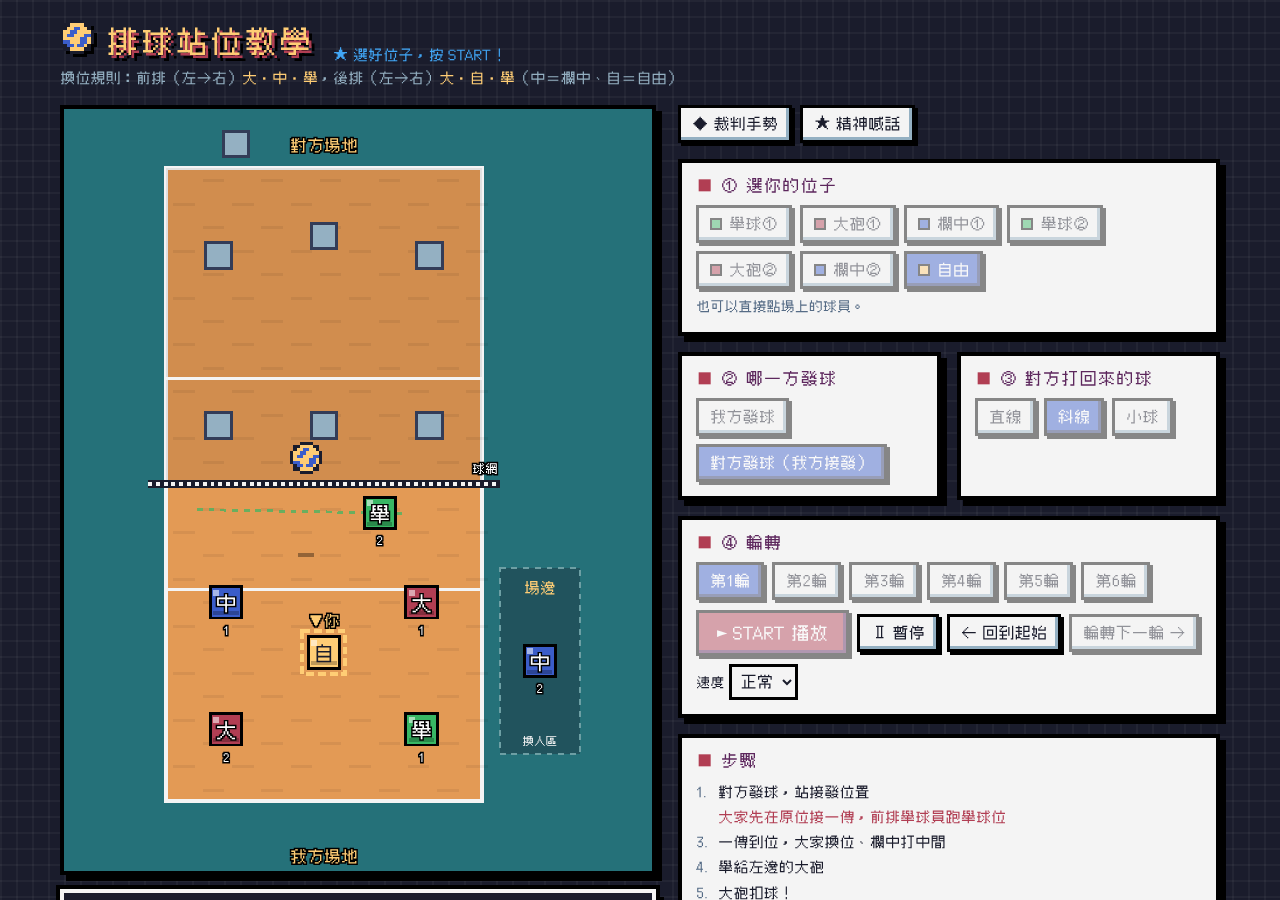
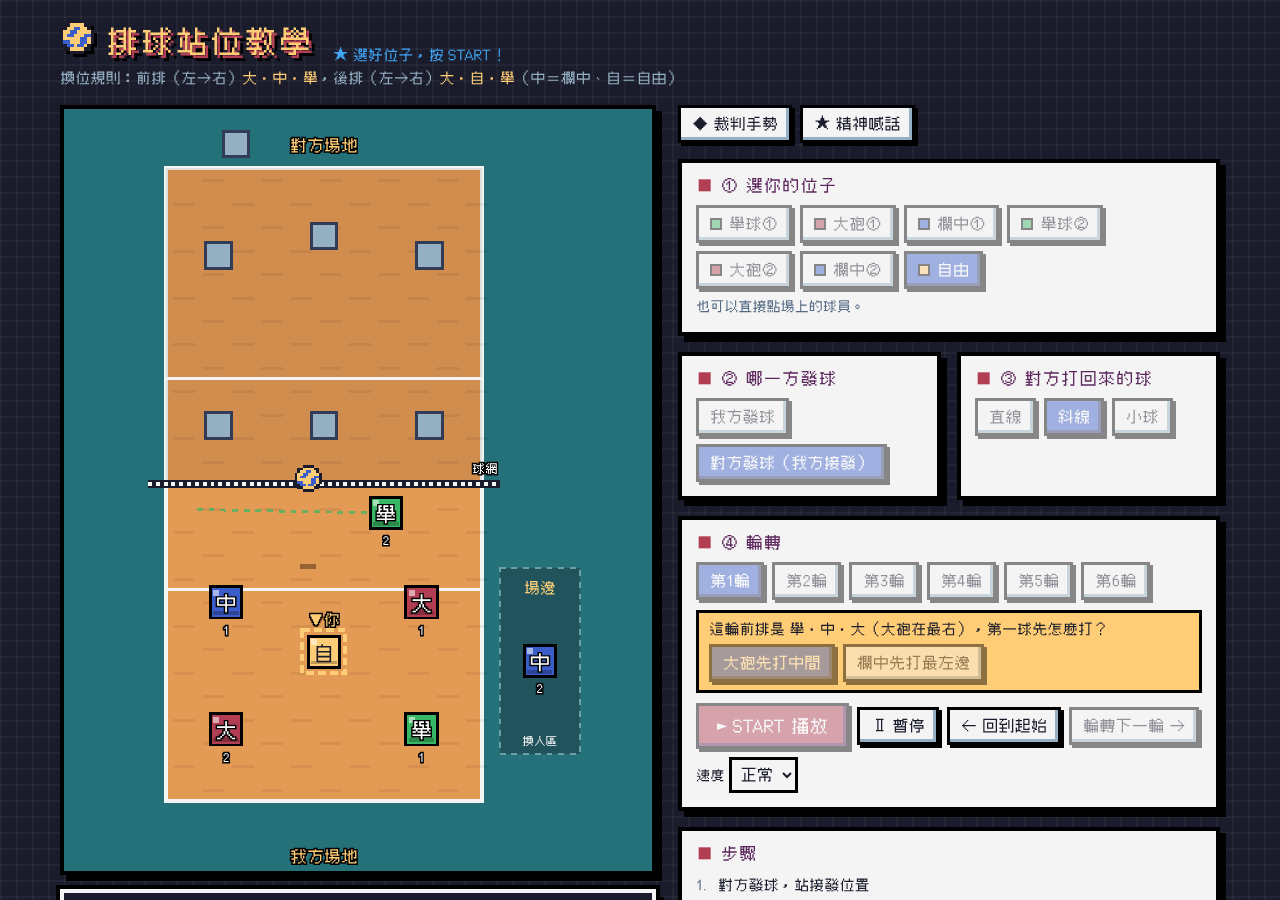
舉在最左、大砲在最右的輪次：先打一顆（大砲打中間或欄中打左邊）再換位
Claude-Session: https://claude.ai/code/session_0111Jq42HSaSmuEgEPrctLA6

diff --git a/index.html b/index.html
@@ -143,6 +143,10 @@
     <div class="card">
       <h2>④ 輪轉</h2>
       <div class="row" id="rotRow"></div>
+      <div id="firstBox" style="display:none;margin-top:10px;padding:8px 10px;background:#ffcd75;border:3px solid #000">
+        <div style="font-size:14px;margin-bottom:6px">這輪前排是 舉・中・大（大砲在最右），第一球先怎麼打？</div>
+        <div class="row" id="firstRow"></div>
+      </div>
       <div class="row" style="margin-top:10px;align-items:center">
         <button class="play" id="playBtn">► START 播放</button>
         <button id="pauseBtn" disabled>Ⅱ 暫停</button>
@@ -243,7 +247,7 @@ const ATK = {
   tip:   {name:'小球', text:'對方吊小球在攔網後面，<b>後排右的舉</b>往前衝救球。'}
 };
 
-let rot = 1, side = 'us', atk = 'cross', sel = null, speed = 1, token = 0, playing = false, paused = false;
+let rot = 1, side = 'us', atk = 'cross', sel = null, speed = 1, token = 0, playing = false, paused = false, firstAtk = 'ohMid';
 let cur = [], lu = null;
 
 const posOf = (i, r = rot) => (((i - (r - 1)) % 6) + 6) % 6 + 1;
@@ -493,16 +497,58 @@ function receiveSpots(){
   return spots;
 }
 
+/* 前排左→右是 舉・中・大（舉在最左、大在最右）的輪次 */
+function crossRound(){
+  if (side !== 'them') return false;
+  const S = front('舉'), OH = front('大');
+  return S >= 0 && OH >= 0 && lu.pos[S] === 4 && lu.pos[OH] === 2;
+}
+
 async function playThem(){
   const S = front('舉'), OH = front('大'), M = front('中'), passer = LIB;
   const rs = receiveSpots();
   const lp = rs[LIB];
   const passSpot = [lp[0] + (lp[0] < 200 ? 15 : lp[0] > 200 ? -15 : 0), lp[1] - 12], setSpot = [285,414];
-  setSteps(['對方發球，站接發位置','大家先在原位接一傳，前排舉球員跑舉球位','一傳到位，大家換位、欄中打中間','舉給左邊的大砲','大砲扣球！', ...DEF_STEPS]);
+  const cross = crossRound();
+  const others = P.map((_, i) => i).filter(i => onCourt(i) && !isFront(lu.pos[i]));
+
+  // 這一球誰打、從哪打
+  let plan;
+  if (!cross){
+    plan = {
+      hitter: OH, run: [{i:M, to:[215,414], delay:.1}, {i:OH, to:[78,470], delay:.1}],
+      hit: [96,416], ball: [96,402],
+      s2: `一傳到位！<b>接完這球大家才換位</b>：後排換到 大・自・舉，${nm(OH)} 到左邊準備攻擊，${nm(M)} 往網前衝準備打中間，牽制對方攔網。`,
+      s3: `${nm(S)} 把球舉給左前的 ${nm(OH)}，大砲助跑起跳。`,
+      steps: ['一傳到位，大家換位、欄中打中間','舉給左邊的大砲','大砲扣球！'],
+      after: '扣球！大家回到站位，準備對方打回來。'
+    };
+  } else if (firstAtk === 'ohMid'){
+    plan = {
+      hitter: OH, run: [{i:OH, to:[240,470], delay:.1}, {i:M, to:[90,470], delay:.1}],
+      hit: [220,416], ball: [220,402],
+      s2: `一傳到位！這輪前排是 舉・中・大，大砲在最右邊，<b>不硬換位</b>：${nm(OH)} 直接往中間準備打中間，${nm(M)} 留在左邊。後排先換到 大・自・舉。`,
+      s3: `${nm(S)} 把球舉到中間給 ${nm(OH)}。`,
+      steps: ['一傳到位，大砲往中間準備','舉給中間的大砲','大砲打中間！'],
+      after: '打完這一球，<b>前排才換到正確位置</b>：大砲回左邊、欄中回中間。'
+    };
+  } else {
+    plan = {
+      hitter: M, run: [{i:M, to:[78,470], delay:.1}, {i:OH, to:[300,470], delay:.1}],
+      hit: [96,416], ball: [96,402],
+      s2: `一傳到位！這輪前排是 舉・中・大，大砲在最右邊，<b>不硬換位</b>：${nm(M)} 拉到左邊準備打最左邊的球，${nm(OH)} 留在右邊。後排先換到 大・自・舉。`,
+      s3: `${nm(S)} 把球舉到最左邊給 ${nm(M)}。`,
+      steps: ['一傳到位，欄中拉到左邊準備','舉給左邊的欄中','欄中打左邊！'],
+      after: '打完這一球，<b>前排才換到正確位置</b>：大砲回左邊、欄中回中間。'
+    };
+  }
+
+  setSteps(['對方發球，站接發位置','大家先在原位接一傳，前排舉球員跑舉球位', ...plan.steps, ...DEF_STEPS]);
   $('oppServer').setAttribute('visibility','visible');
 
   stepNow(0);
-  caption('對方發球。前排舉球員站網前，其他五個人站 <b>W 型</b>接發。發球前要照輪轉順序站，<b>不能提早換位</b>。');
+  caption('對方發球。前排舉球員站網前，其他五個人站 <b>W 型</b>接發。發球前要照輪轉順序站，<b>不能提早換位</b>。'
+    + (cross ? `<br>★ 這輪前排是 舉・中・大，第一球先由${firstAtk === 'ohMid' ? '大砲打中間' : '欄中打最左邊'}，打完再換位。` : ''));
   setBall(110, 36, 0);
   if (!await wait(900)) return;
 
@@ -511,19 +557,18 @@ async function playThem(){
   if (!await tween(1.4, [{i:S, to:setSpot, delay:.2}, {i:passer, to:passSpot, delay:.45}], {from:[110,36], to:passSpot, h:140})) return;
 
   stepNow(2);
-  caption(`一傳到位！<b>接完這球大家才換位</b>：後排換到 大・自・舉，${nm(OH)} 到左邊準備攻擊，${nm(M)} 往網前衝準備打中間，牽制對方攔網。`);
-  const others = P.map((_, i) => i).filter(i => onCourt(i) && !isFront(lu.pos[i]));
-  if (!await tween(1.0, [{i:M, to:[215,414], delay:.1}, {i:OH, to:[78,470], delay:.1}, ...others.map(i => ({i, to: baseSpot(i), delay:.15}))], {from:passSpot, to:[setSpot[0], setSpot[1]-6], h:110})) return;
+  caption(plan.s2);
+  if (!await tween(1.0, [...plan.run, ...others.map(i => ({i, to: baseSpot(i), delay:.15}))], {from:passSpot, to:[setSpot[0], setSpot[1]-6], h:110})) return;
 
   stepNow(3);
-  caption(`${nm(S)} 把球舉給左前的 ${nm(OH)}，大砲助跑起跳。`);
-  if (!await tween(0.9, [{i:OH, to:[96,416], delay:.35}], {from:[setSpot[0], setSpot[1]-6], to:[96,402], h:95})) return;
+  caption(plan.s3);
+  if (!await tween(0.9, [{i:plan.hitter, to:plan.hit, delay:.35}], {from:[setSpot[0], setSpot[1]-6], to:plan.ball, h: cross && firstAtk === 'ohMid' ? 70 : 95})) return;
 
   stepNow(4);
-  caption(`${nm(OH)} 扣球！大家回到站位，準備對方打回來。`);
-  if (!await tween(0.45, [], {from:[96,402], to:[250,170], h:25})) return;
+  caption(`${nm(plan.hitter)} ${plan.after}`);
+  if (!await tween(0.45, [], {from:plan.ball, to:[250,170], h:25})) return;
   const back2 = P.map((_, i) => i).filter(onCourt).map(i => ({i, to: baseSpot(i)}));
-  if (!await tween(0.9, back2)) return;
+  if (!await tween(cross ? 1.2 : 0.9, back2)) return;
   await defend(5, [250,170]);
 }
 
@@ -607,6 +652,14 @@ function updateBtns(){
   $('sideThem').className = side === 'them' ? 'on' : '';
   ['sideUs','sideThem','nextBtn','playBtn'].forEach(id => $(id).disabled = playing);
   $('pauseBtn').disabled = !playing;
+  $('firstBox').style.display = crossRound() ? 'block' : 'none';
+  $('firstRow').innerHTML = '';
+  [['ohMid','大砲先打中間'],['mLeft','欄中先打最左邊']].forEach(([k, t]) => {
+    const b = document.createElement('button');
+    b.textContent = t; b.className = firstAtk === k ? 'on' : ''; b.disabled = playing;
+    b.onclick = () => { firstAtk = k; reset(); };
+    $('firstRow').appendChild(b);
+  });
   if (!playing && paused) setPaused(false);
 }
 

diff --git a/README.md b/README.md
@@ -37,6 +37,7 @@
 ### ② 選哪一方發球
 - **我方發球**：發球員走到端線後發球，球一離手，大家換到自己的位置。
 - **對方發球（我方接發）**：一選「對方發球」，球員就會先排好接發站位。前排舉球員站網前，其他五個人站 **W 型**接發（照輪轉順序，不能提早換位）→ 球過網時大家**先在原位接一傳**，只有前排舉球員快跑到舉球位 → 一傳到位後大家才換位，欄中往網前衝準備打中間 → 舉給左邊大砲扣球。
+  - **前排是 舉・中・大 的輪次**（舉在最左、大砲在最右，第 1、4 輪）：前排不硬換位，第一球可以選「大砲先打中間」或「欄中先打最左邊」，打完這一球前排才換到正確位置。
 
 ![接發球動畫](screenshots/receive.png)
 
